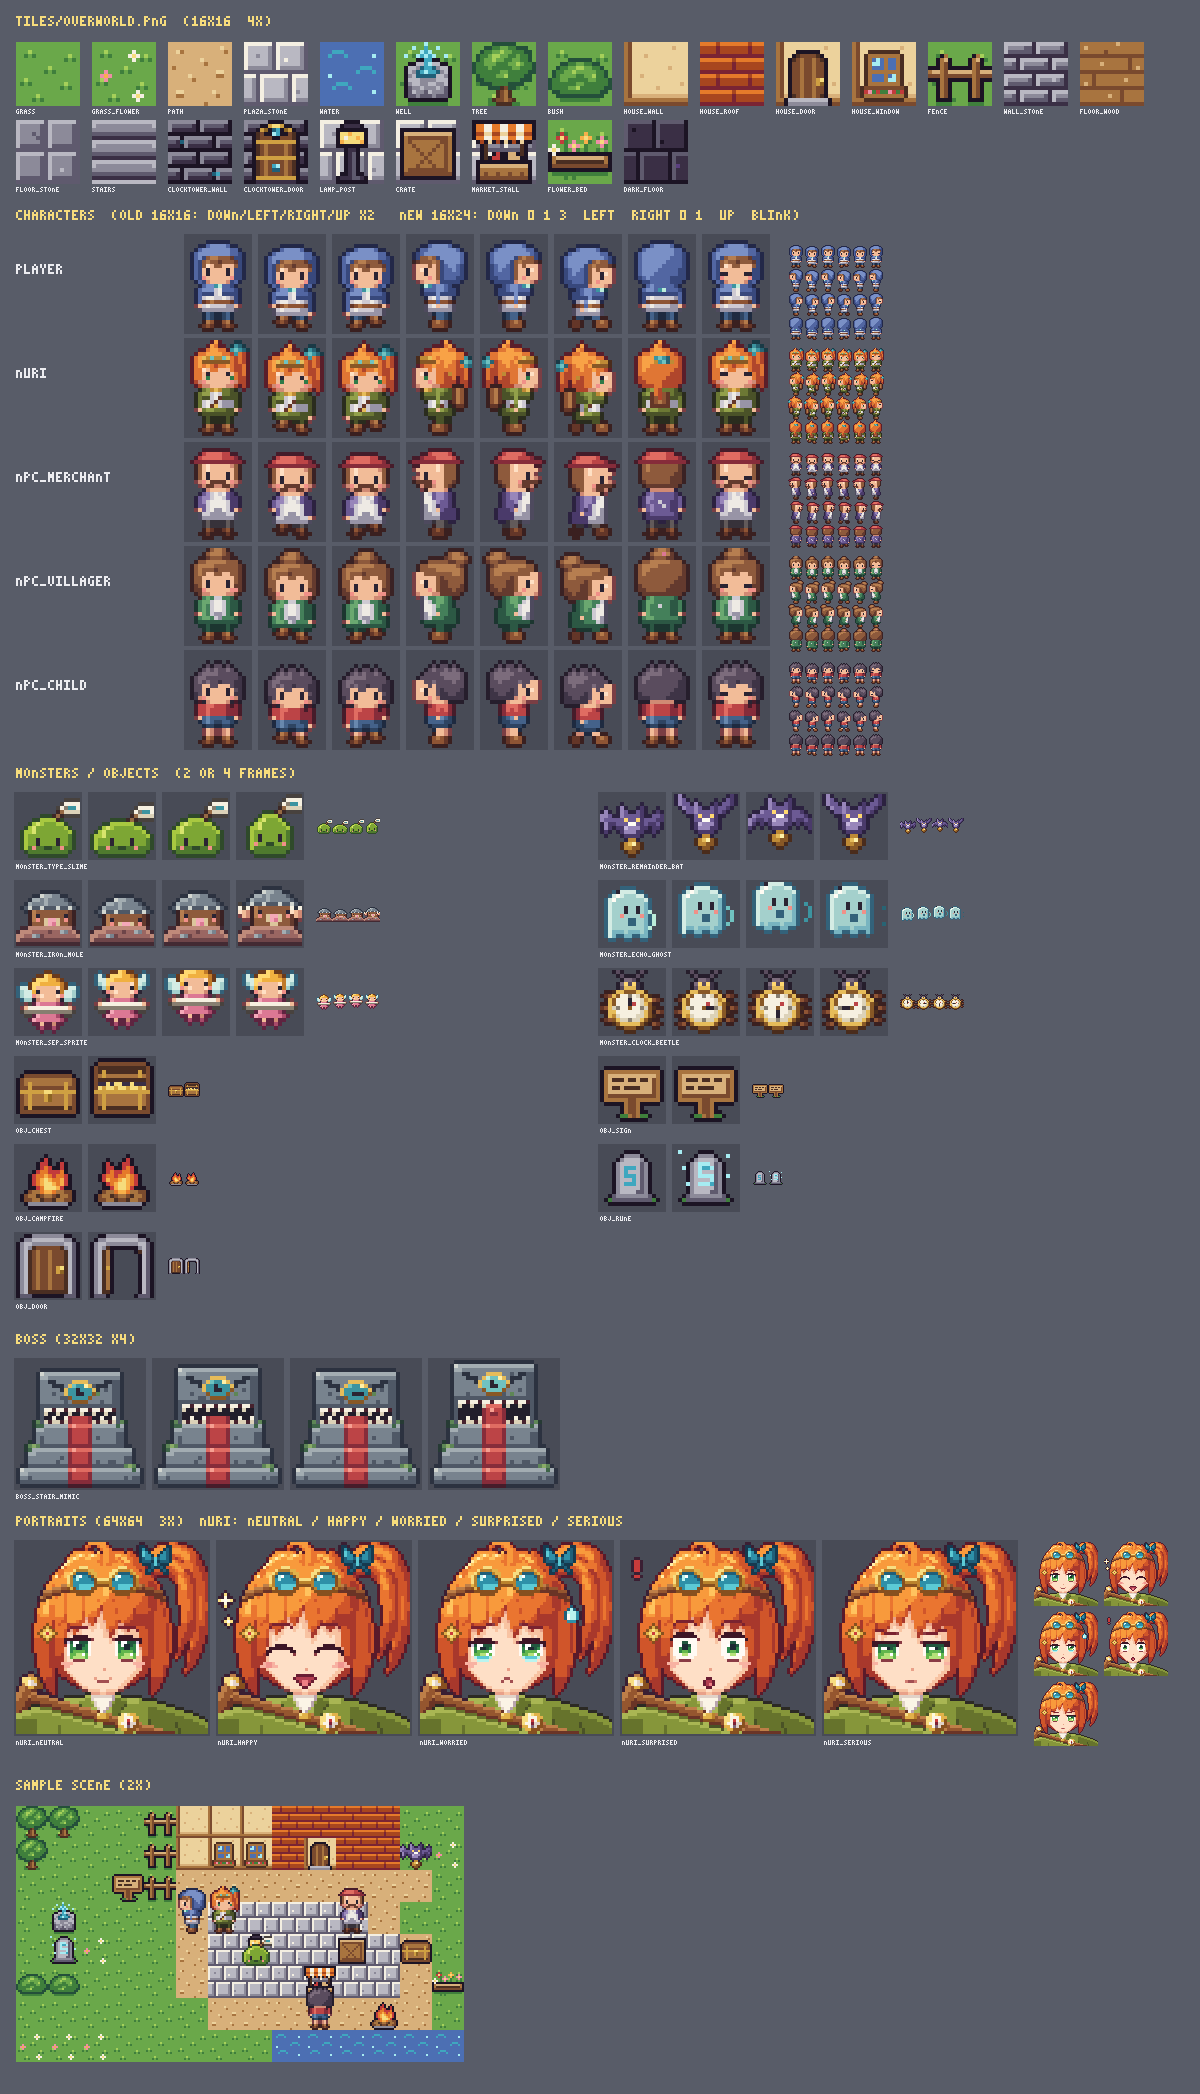
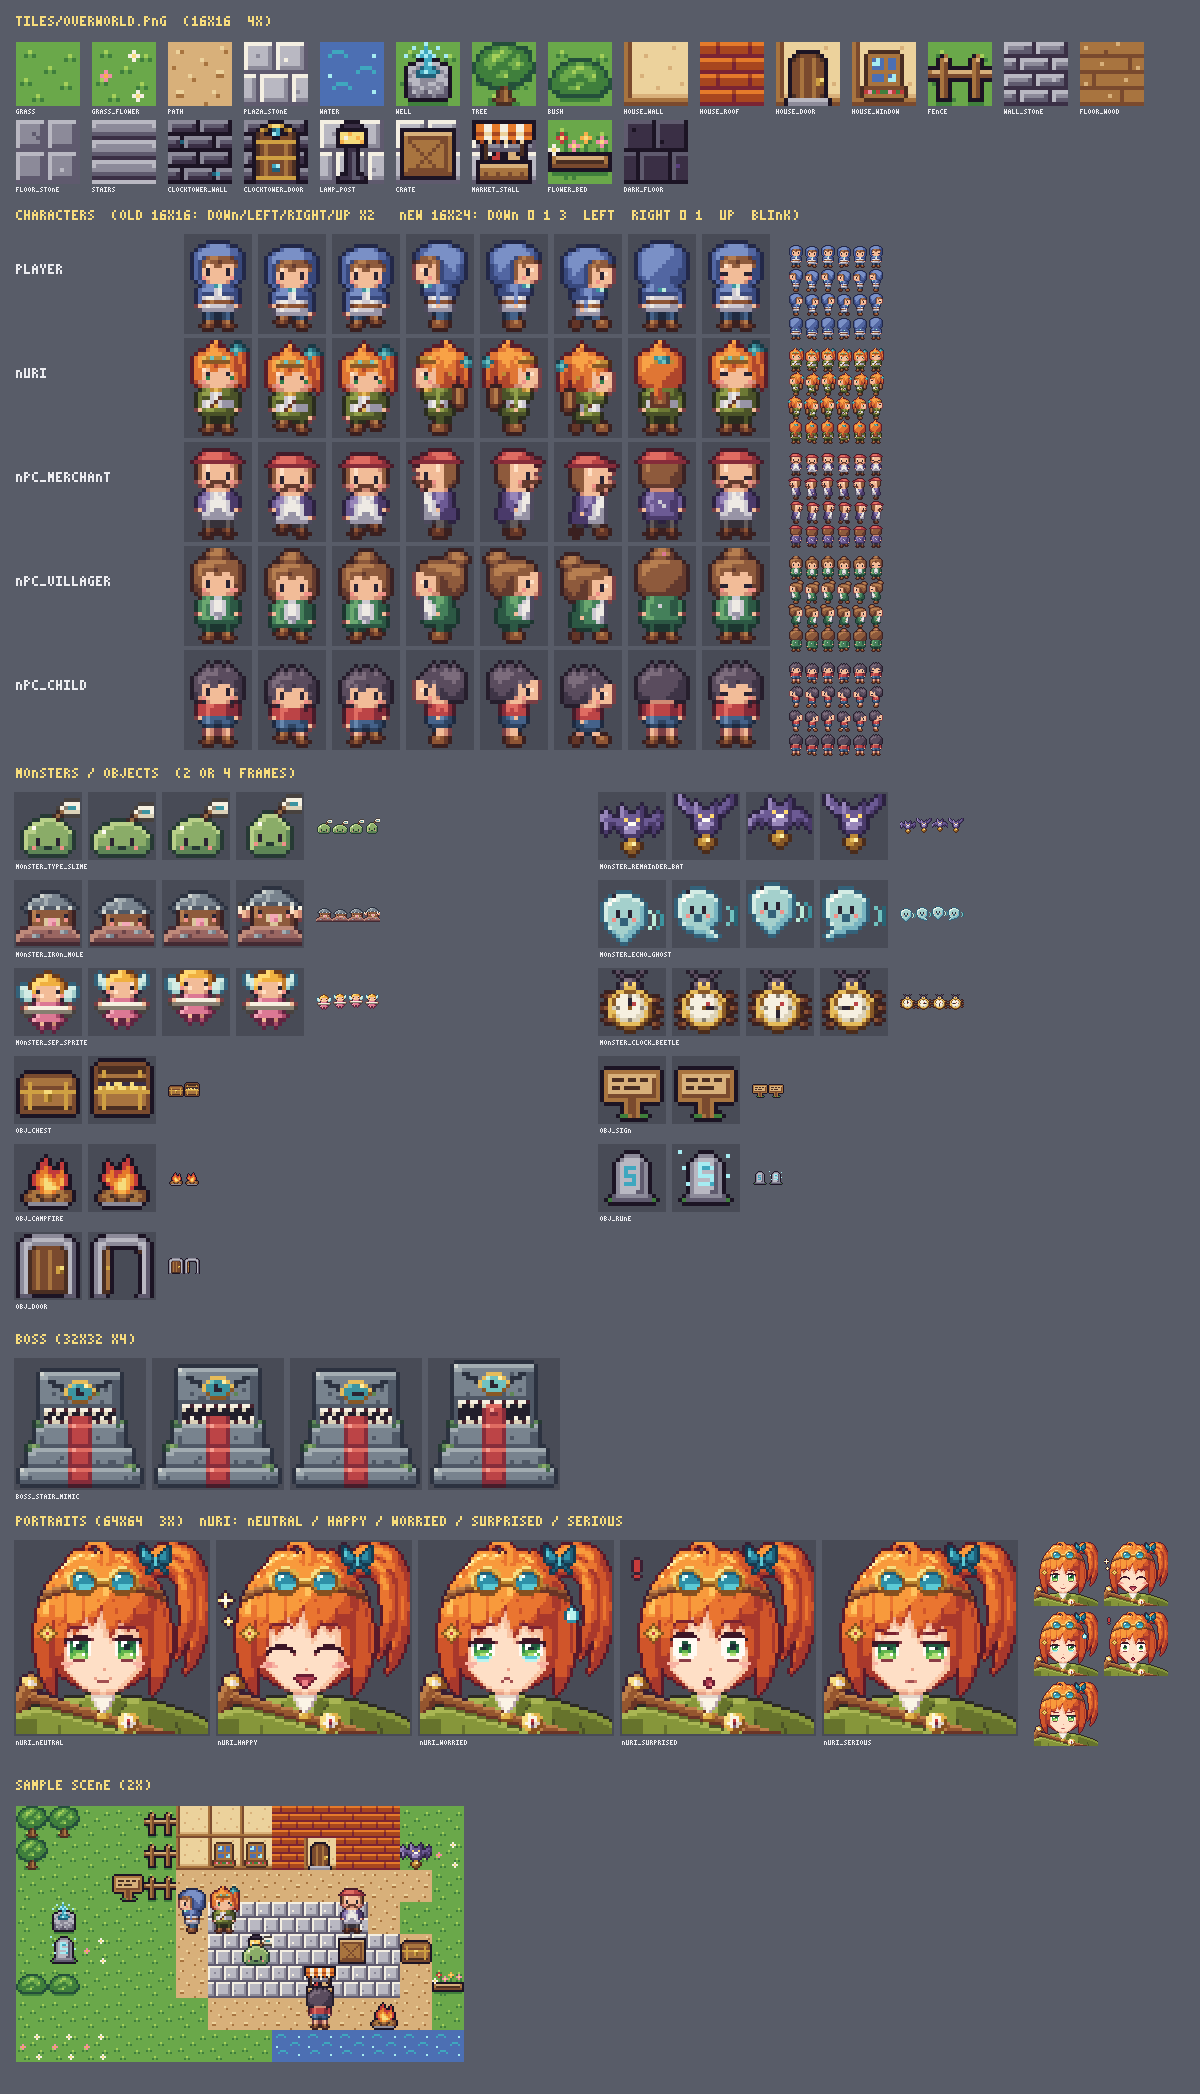
그래픽 개편(지역 1 몬스터·보스): 전투 화면 4프레임 재생, 메아리 유령·타입 슬라임 다듬기, 미리보기
- src/ui/assets.ts·styles.css: 전투 화면 스프라이트가 시트 폭으로 프레임 수를 보고 4프레임(1초, steps(4))
  또는 옛 2프레임(0.8초)으로 제자리 재생(지역 2~6 옛 시트도 그대로 동작)
- 메아리 유령: 물방울 몸 + 프레임마다 흔들리는 꼬리, 문자열 곱셈을 닮은 '))' 두 겹 메아리 고리(가장자리에서 잘리지 않게)
- 타입 슬라임: 풀 타일과 같은 색이라 맵에서 묻혀서 이끼빛 램프를 한 단계 밝혀 칠하고 흰 광택 1px
- tools/art/monster_preview.py → docs/art-overhaul/r1-monsters.png(8배·전투 배율·맵 배율)·r1-monsters.gif
- docs/art-overhaul/r1-battle.png·r1-battle-boss.png: 전투 화면(UI 하네스) 스크린샷
- 임시 tests/e2e/tmp-monster-shot.spec.ts 삭제

Changed region(s): [[0.4933, 0.4035, 0.74, 0.4656], [0.0, 0.3725, 0.185, 0.4346], [0.2158, 0.3725, 0.2467, 0.4346]]

diff --git a/tools/art/monster_preview.py b/tools/art/monster_preview.py
@@ -1,0 +1,130 @@
+"""그래픽 개편 미리보기: 지역 1 몬스터 6종·보스(계단 미믹) 4프레임(검토용, 게임 에셋 아님).
+
+    python tools/art/monster_preview.py
+
+- docs/art-overhaul/r1-monsters.png : 몬스터마다 4프레임을 8배로(풀 바탕), 전투 화면 배율(몬스터 4배·보스 3배, 어두운 패널),
+                                      맵 배율(1배·3배, 풀·흙길 타일 위). 보스는 4프레임을 6배로
+- docs/art-overhaul/r1-monsters.gif : 6종과 보스가 4프레임 제자리 루프를 도는 모습(4fps, 몬스터 4배·보스 3배 = 전투 화면 크기)
+"""
+import os
+import sys
+
+HERE = os.path.dirname(os.path.abspath(__file__))
+sys.path.insert(0, HERE)
+
+from boss import BOSSES  # noqa: E402
+from build import text  # noqa: E402
+from cozysamples import grass, path  # noqa: E402
+from gif import write_gif  # noqa: E402
+from gridlib import Canvas  # noqa: E402
+from monsters import MONSTERS  # noqa: E402
+from png import encode_png  # noqa: E402
+
+ROOT = os.path.normpath(os.path.join(HERE, "..", ".."))
+OUT = os.path.join(ROOT, "docs", "art-overhaul")
+
+BG = (0x2b, 0x24, 0x33, 255)
+PANEL = (0x3a, 0x34, 0x46, 255)
+HEAD = (0xf6, 0xdc, 0x7c, 255)
+DIM = (0xa2, 0x94, 0xa0, 255)
+
+ORDER = ["monster_type_slime", "monster_remainder_bat", "monster_iron_mole",
+         "monster_echo_ghost", "monster_sep_sprite", "monster_clock_beetle"]
+NOTES = {
+    "monster_type_slime": "squash / stretch, base row fixed",
+    "monster_remainder_bat": "fly 0 -1 -2 -1, wings fold on 1 3",
+    "monster_iron_mole": "mound fixed, duck / pop up",
+    "monster_echo_ghost": "fly, echo ring moves out",
+    "monster_sep_sprite": "fly, wings fold on 1 3",
+    "monster_clock_beetle": "minute hand ticks, legs alternate",
+}
+
+
+def tiled(tile, w, h):
+    cv = Canvas(w, h)
+    for y in range(0, h, 16):
+        for x in range(0, w, 16):
+            cv.draw(tile, x, y)
+    return cv
+
+
+def frame_cv(g):
+    return Canvas(len(g[0]), len(g)).draw(g)
+
+
+def sheet():
+    S, BS = 8, 6
+    cell = 16 * S + 8                 # 8배 프레임 칸
+    battle_w = 4 * (64 + 6)           # 전투 배율 4프레임
+    map_w = 4 * 18 + 8 + 4 * 52       # 1배 + 3배
+    W = 16 + 4 * cell + 16 + battle_w + 16 + map_w + 16
+    row_h = 16 * S + 30
+    boss_h = 32 * BS + 30 + 96 + 16
+    H = 16 + 20 + len(ORDER) * row_h + 20 + boss_h + 16
+    cv = Canvas(W, H, BG)
+    text(cv, "region 1 monsters  4 frames  (x8 / battle x4 / map x1 x3)", 16, 12, 2, HEAD)
+    g_tile, p_tile = grass(), path()
+    y = 40
+    for name in ORDER:
+        frames = MONSTERS[name]
+        text(cv, f"{name.replace('monster_', '')}  -  {NOTES[name]}", 16, y, 1, DIM)
+        y0 = y + 10
+        for i, g in enumerate(frames):
+            bg = tiled(g_tile, 16, 16)
+            bg.draw(g)
+            cv.paste(bg, 16 + i * cell, y0, S)
+            text(cv, str(i), 16 + i * cell + 2, y0 + 16 * S + 2, 1, DIM)
+        bx = 16 + 4 * cell + 16
+        cv.fill_rect(bx - 4, y0, battle_w + 4, 64 + 8, PANEL)
+        for i, g in enumerate(frames):
+            cv.paste(frame_cv(g), bx + i * 70, y0 + 4, 4)
+        mx = bx + battle_w + 16
+        strip = tiled(p_tile, 4 * 18, 16)
+        for i, g in enumerate(frames):
+            strip.draw(g, i * 18, 0)
+        cv.paste(strip, mx, y0, 1)
+        for i, g in enumerate(frames):
+            bg = tiled(p_tile if i % 2 else g_tile, 16, 16)
+            bg.draw(g)
+            cv.paste(bg, mx + 4 * 18 + 8 + i * 52, y0, 3)
+        y += row_h
+    y += 20
+    text(cv, "boss_stair_mimic  -  glare / breathe / hand turns / threat (x6, battle x3)", 16, y, 1, DIM)
+    y0 = y + 10
+    for i, g in enumerate(BOSSES["boss_stair_mimic"]):
+        bg = tiled(p_tile, 32, 32)
+        bg.draw(g)
+        cv.paste(bg, 16 + i * (32 * BS + 10), y0, BS)
+    y1 = y0 + 32 * BS + 16
+    cv.fill_rect(12, y1 - 4, 4 * 106 + 8, 96 + 8, PANEL)
+    for i, g in enumerate(BOSSES["boss_stair_mimic"]):
+        cv.paste(frame_cv(g), 16 + i * 106, y1, 3)
+    return cv
+
+
+def gif_frames():
+    W, H = 6 * 72 + 112 + 16, 112
+    out = []
+    for i in range(4):
+        cv = Canvas(W, H, PANEL)
+        for k, name in enumerate(ORDER):
+            cv.paste(frame_cv(MONSTERS[name][i]), 8 + k * 72, 24, 4)
+        cv.paste(frame_cv(BOSSES["boss_stair_mimic"][i]), 8 + 6 * 72 + 8, 8, 3)
+        out.append(cv)
+    return out
+
+
+def main():
+    os.makedirs(OUT, exist_ok=True)
+    cv = sheet()
+    png_path = os.path.join(OUT, "r1-monsters.png")
+    with open(png_path, "wb") as f:
+        f.write(encode_png(cv.width, cv.height, cv.rows()))
+    gif_path = os.path.join(OUT, "r1-monsters.gif")
+    write_gif(gif_path, gif_frames(), delay_cs=25)
+    for p in (png_path, gif_path):
+        print(os.path.relpath(p, ROOT))
+
+
+if __name__ == "__main__":
+    main()

diff --git a/tools/art/monsters.py b/tools/art/monsters.py
@@ -79,7 +79,7 @@ def ellipse(cx, cy, rx, ry, size=16):
 
 
 # ── 타입 슬라임: 'str' 꼬리표를 단 말랑한 젤리. 기본 → 눌림 → 기본 → 늘어남 ─────────────
-SLIME_RAMP = "grass"
+SLIME_RAMP = "moss"
 
 
 def _slime(w, h):
@@ -96,10 +96,10 @@ def _slime(w, h):
         for x in range(16):
             if abs(x + 0.5 - cx) <= hw:
                 body.add((x, y))
-    p.mass(body, SLIME_RAMP, shade_below=13)
-    # 젤리 광택: 왼쪽 위 강조 2px
+    p.mass(body, SLIME_RAMP, shade_below=13, lift=1)
+    # 젤리 광택: 왼쪽 위에 흰 점 1px + 강조 2px(풀 위에서도 말랑한 젤리로 읽히게 이끼빛 램프를 한 단계 밝혀 칠함)
     lx = min(x for x, y in body if y == top + 2) + 1
-    p.put(lx, top + 2, f"{SLIME_RAMP}.spec")
+    p.put(lx, top + 2, "white")
     p.put(lx, top + 3, f"{SLIME_RAMP}.spec")
     p.put(lx + 1, top + 1, f"{SLIME_RAMP}.spec")
     # 얼굴: 점 눈 1×2, 볼터치, 작은 입
@@ -237,36 +237,38 @@ def _mole(dy, paws_up):
 
 # ── 메아리 유령: 하늘빛 유령이 동그란 입으로 외치면 메아리 고리가 퍼져 나간다 ──────────
 _RINGS = ("teal.spec", "teal.hi", "teal.base", "teal.shade")
+# 물방울 모양 몸(머리는 둥글고 아래로 좁아져 꼬리가 된다). 행마다 (x0, x1)
+_GHOST_ROWS = [(3, 6), (1, 8), (0, 9), (0, 9), (0, 9), (0, 9), (0, 9), (1, 9), (1, 8)]
+# 꼬리 끝 세 줄: 프레임마다 가운데 → 오른쪽 → 가운데 → 왼쪽으로 흔들린다
+_GHOST_TAIL = (((2, 7), (3, 6), (4, 5)), ((2, 7), (4, 8), (7, 9)), ((2, 7), (3, 6), (4, 5)), ((2, 7), (1, 4), (0, 1)))
 
 
 def _ghost(dy, phase):
+    """메아리 유령(P0104 메아리 주문 = 문자열 곱셈): 외친 소리가 ')) '로 거듭 퍼진다."""
     p = Px()
-    head = ellipse(7.0, 6.5 + dy, 5.0, 4.6)
-    body = set(head)
-    bottom = 13 + dy
-    for y in range(int(6 + dy), bottom + 1):
-        for x in range(2, 12):
-            body.add((x, y))
-    # 꼬리 물결: 프레임마다 한 칸씩 흘러간다
-    for x in range(2, 12):
-        if (x + phase) % 4 in (0, 1):
-            body.discard((x, bottom))
+    ox, oy = 1, 3 + dy
+    body = set()
+    for j, (x0, x1) in enumerate(_GHOST_ROWS):
+        body |= {(ox + x, oy + j) for x in range(x0, x1 + 1)}
+    for j, (x0, x1) in enumerate(_GHOST_TAIL[phase]):
+        body |= {(ox + x, oy + len(_GHOST_ROWS) + j) for x in range(x0, x1 + 1)}
     p.mass(body, "sky", lift=1)
-    p.put(4, 3 + dy, "white")
-    p.put(3, 4 + dy, "white")
-    for ex in (6, 9):
-        p.put(ex, 6 + dy, "eye")
-        p.put(ex, 7 + dy, "eye")
-    p.put(5, 8 + dy, "blush")
-    p.put(10, 8 + dy, "blush")
+    p.put(ox + 2, oy + 1, "white")
+    p.put(ox + 1, oy + 2, "white")
+    for ex in (3, 6):
+        p.put(ox + ex, oy + 4, "eye")
+        p.put(ox + ex, oy + 5, "eye")
+    p.put(ox + 2, oy + 6, "blush")
+    p.put(ox + 7, oy + 6, "blush")
     # 동그랗게 벌린 입
-    for x, y in ((7, 9), (8, 9), (7, 10), (8, 10)):
-        p.put(x, y + dy, "sky.ol")
-    # 메아리 고리 ')': 프레임마다 바깥으로 1px, 멀수록 옅어진다
-    rx, my = 12 + phase, 9 + dy
-    for x, y in ((rx, my - 2), (rx + 1, my - 1), (rx + 1, my), (rx + 1, my + 1), (rx, my + 2)):
-        if x < 16:
-            p.put(x, y, _RINGS[phase])
+    for x, y in ((4, 6), (5, 6), (4, 7), (5, 7)):
+        p.put(ox + x, oy + y, "sky.ol")
+    # 메아리 고리 '))' 두 겹: 프레임마다 바깥으로 1px, 바깥 고리일수록 옅다. 가장자리에선 납작해진다
+    my = oy + 6
+    for k, rx in enumerate((13 + phase % 2, 15 + phase % 2)):
+        col = _RINGS[k * 2 + phase % 2]
+        for x, y in ((rx - 1, my - 2), (rx, my - 1), (rx, my), (rx, my + 1), (rx - 1, my + 2)):
+            p.put(min(x, 15), y, col)
     return p.grid(skip=_RINGS)
 
 
